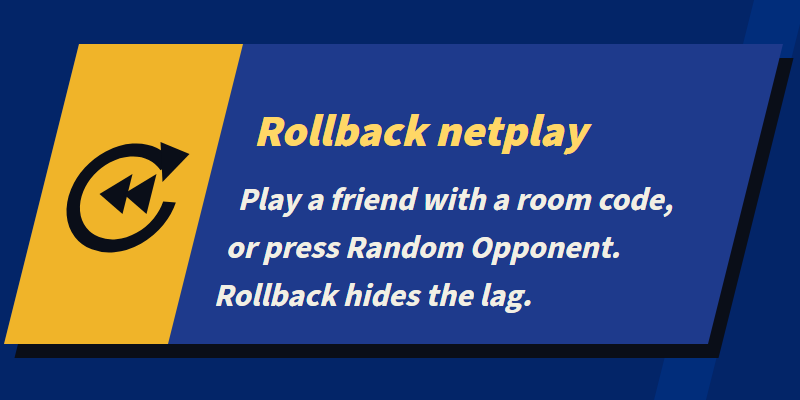
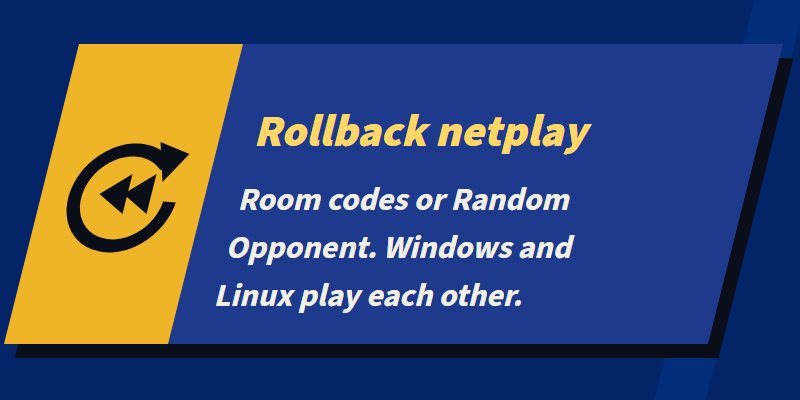
README + art for 0.2.2: badges, Windows and Linux downloads, what's new in 0.2.x, stale claims removed

Changed region(s): [[0.3125, 0.45, 0.8438, 0.54], [0.2812, 0.57, 0.7812, 0.66], [0.2812, 0.69, 0.6875, 0.78]]

diff --git a/menu/pipeline/build_brand.py b/menu/pipeline/build_brand.py
@@ -760,7 +760,7 @@ def badge(b):
     return svg(math.ceil(W), h, body), math.ceil(W), h
 
 
-def download_button():
+def download_button(platform="WINDOWS", arch="x64"):
     W, H = 640, 150
     h = 124
     o = h * T
@@ -771,9 +771,10 @@ def download_button():
     pane = poly([(o, 0), (o + 124, 0), (124, h), (0, h)])
     body += '<path d="%s" fill="%s"/>' % (pane, C["ink"])
     body += glyph("download", C["gold"], o / 2 + 124 / 2 - 34, h / 2 - 34, 68)
-    fs1 = min(44, 420 / tw("DOWNLOAD FOR WINDOWS", 1, track=0.5 / 44))
-    t1, _ = text("DOWNLOAD FOR WINDOWS", fs1, 0, 0, C["ink"], track=0.5)
-    t2, _ = text("%s  ·  x64  ·  free" % TEXT["version"], 26, 0, 0, C["ink"], "bold", track=0.6)
+    label = "DOWNLOAD FOR " + platform
+    fs1 = min(44, 420 / tw(label, 1, track=0.5 / 44))
+    t1, _ = text(label, fs1, 0, 0, C["ink"], track=0.5)
+    t2, _ = text("%s  ·  %s  ·  free" % (TEXT["version"], arch), 26, 0, 0, C["ink"], "bold", track=0.6)
     body += '<g transform="translate(%g %g) skewX(%g)">%s</g>' % (160 + (h - 72) * T * 0 + 16, 72, SKEW, t1)
     body += '<g transform="translate(%g %g) skewX(%g)">%s</g>' % (160 + 4, 108, SKEW, t2)
     return svg(W, H, body)
@@ -952,6 +953,10 @@ def main():
         write("badges/download_windows.svg", s_, "Download for Windows button (release page / README)")
         write("badges/download_windows.png", r.png(s_, 640, 150, 1), "Download button 640x150")
         write("badges/download_windows@2x.png", r.png(s_, 640, 150, 2), "Download button 1280x300")
+        s_ = download_button("LINUX", "x86_64")
+        write("badges/download_linux.svg", s_, "Download for Linux button (release page / README)")
+        write("badges/download_linux.png", r.png(s_, 640, 150, 1), "Download button 640x150")
+        write("badges/download_linux@2x.png", r.png(s_, 640, 150, 2), "Download button 1280x300")
 
         # ---- app icons
         big = r.png(app_icon(1024), 1024, 1024, 1)

diff --git a/README.md b/README.md
@@ -9,8 +9,8 @@
 </p>
 
 <p align="center">
-  <a href="https://github.com/GurekamDhillon/gd-melee-workspace/releases/latest"><img alt="Release v0.1.7" src="docs/readme/brand/version.svg" height="28"></a>
-  <img alt="Platform: Windows x64" src="docs/readme/brand/windows.svg" height="28">
+  <a href="https://github.com/GurekamDhillon/gd-melee-workspace/releases/latest"><img alt="Release v0.2.2" src="docs/readme/brand/version.svg" height="28"></a>
+  <img alt="Platform: Windows x64 and Linux x86_64" src="docs/readme/brand/windows.svg" height="28">
   <img alt="Netplay: rollback" src="docs/readme/brand/rollback.svg" height="28">
   <img alt="Mods: m-ex compatible" src="docs/readme/brand/mex.svg" height="28">
   <img alt="Replays: Slippi" src="docs/readme/brand/slippi.svg" height="28">
@@ -30,23 +30,59 @@ decompilation** rather than by emulation or by recompiling the retail binary. It
 **rollback netcode** from a competitive lobby, renders natively in HD, runs **m-ex** mod discs and
 loose mods, and can be scripted in **Lua**.
 
-> **Status: public test build (0.1.7).** Expect rough edges and please report bugs: what you did,
-> which disc, and the crash report from the `crashlogs` folder (or `melee-pc.log`).
+> **Status: public test build (0.2.2).** Expect rough edges and please report bugs: what you did,
+> which disc, and the crash report from the `crashlogs` folder (or `melee-pc.log`). Windows and
+> Linux 0.2.2 play each other online; they do not play 0.2.1 or earlier, so both players update.
 
 ## Quick start
 
-<p><a href="https://github.com/GurekamDhillon/gd-melee-workspace/releases/latest"><img alt="Download for Windows" src="docs/readme/brand/download_windows.svg" height="60"></a></p>
+<p>
+  <a href="https://github.com/GurekamDhillon/gd-melee-workspace/releases/latest"><img alt="Download for Windows" src="docs/readme/brand/download_windows.svg" height="60"></a>
+  <a href="https://github.com/GurekamDhillon/gd-melee-workspace/releases/latest"><img alt="Download for Linux" src="docs/readme/brand/download_linux.svg" height="60"></a>
+</p>
 
-1. **Download** the latest `GDMelee-<version>-win64.zip` from
-   [Releases](https://github.com/GurekamDhillon/gd-melee-workspace/releases/latest) and unzip it anywhere.
-2. **Point it at your own disc.** Start `GD Melee.exe`, click *Add disc...* and pick your own
-   legally dumped *Melee* NTSC 1.02 `.iso` (mod discs such as ACE or Akaneia work too). No game data
-   ships with the port.
+1. **Download** the latest release from
+   [Releases](https://github.com/GurekamDhillon/gd-melee-workspace/releases/latest) and unpack it
+   anywhere: `GDMelee-<version>-win64.zip` on Windows, or
+   `GDMelee-<version>-linux-x86_64.tar.xz` on Linux (`tar xf`, then run `./GD-Melee`).
+2. **Point it at your own disc.** Start `GD Melee.exe` (Windows) or `./GD-Melee` (Linux), click
+   *Add disc...* and pick your own legally dumped *Melee* NTSC 1.02 `.iso` (mod discs such as ACE or
+   Akaneia work too). Nothing disc-derived is distributed with the port.
 3. **Play.** Press *PLAY*. For online play: **VERSUS > ONLINE**, then host a room and send the
    code, join one, or press *Random Opponent*.
 
-The launcher is in English and Spanish (it follows Windows by default; English or Spanish can be chosen in the launcher).
-Windows SmartScreen warns on first run because the launcher isn't code-signed.
+The launcher is in English and Spanish (it follows the system language by default; English or Spanish
+can be chosen in the launcher). Windows SmartScreen warns on first run because the launcher isn't
+code-signed. The Linux build is a 32-bit game on a 64-bit host and needs the distribution's 32-bit
+runtime and Vulkan driver; the tarball's `README.txt` lists the packages. Press **F11** or
+**Alt+Enter** for fullscreen.
+
+## What's new in 0.2.x
+
+Details for each release are in [`tools/release/notes/`](tools/release/notes/).
+
+- **Linux, and Windows-vs-Linux play.** A native Linux x86_64 build with the same launcher, mods and
+  online play; Windows and Linux players can match each other. Before a match both games compare a
+  build id, and a mismatched build is refused instead of desyncing (0.2.0, fixed up in 0.2.2).
+- **Online.** Rollback with room codes and a competitive lobby, a stricter disc check, sets that
+  **resume after a disconnect** (or can be abandoned), tied games replayed instead of sudden death, and
+  the Turbo match rule for private rooms. Rollback checks look at far more of the game, so a real
+  desync is caught on the frame it starts.
+- **Mod browser in the game (SSBM Nucleus).** Browse and search mods with thumbnails and filters, queue
+  them (the queue survives a restart) and the game downloads and installs zip mods for you.
+  Mods from SSBM Nucleus - https://ssbmnucleus.net, used with the permission of sc00p.
+- **255 costumes per fighter**, so skins are no longer limited to the original palette slots.
+- **Fullscreen** with F11 or Alt+Enter, and a Video setting.
+- **Everything unlocked by default**: every fighter and stage from the start. Turn it off in
+  Settings > Gameplay.
+- **Envoy**, a roguelite on top of Classic and Adventure: pick a *drive* after each stage, carry four in
+  a bag, take rare *keystones* with a drawback, and face tougher opponents that use technique against
+  you. It ships on by default (SOLO > ENVOY; the launcher's Mods tab turns it off); two players can
+  run it as offline co-op, or play an Envoy set in a private online room.
+- **A new Qt launcher** for Windows and Linux with a Diagnostics tab, and opt-in crash report upload.
+- **Linux fixes:** much faster rollback snapshots, the Turbo crashes fixed, and Envoy drive items,
+  the crit shader and mod surface shaders now work. Elsewhere: a bad shader-cache entry can no longer
+  stop the game from starting, and Data > Snapshots no longer freezes.
 
 ## Features
 
@@ -54,7 +90,7 @@ Windows SmartScreen warns on first run because the launcher isn't code-signed.
   <tr>
     <td><picture>
       <source media="(prefers-color-scheme: dark)" srcset="docs/readme/feature_rollback_dark.png">
-      <img alt="Rollback netplay: Play a friend with a room code, or press Random Opponent. Rollback hides the lag." src="docs/readme/feature_rollback_light.png" width="400">
+      <img alt="Rollback netplay: Room codes or Random Opponent. Windows and Linux play each other." src="docs/readme/feature_rollback_light.png" width="400">
     </picture></td>
     <td><picture>
       <source media="(prefers-color-scheme: dark)" srcset="docs/readme/feature_lobby_dark.png">
@@ -64,7 +100,7 @@ Windows SmartScreen warns on first run because the launcher isn't code-signed.
   <tr>
     <td><picture>
       <source media="(prefers-color-scheme: dark)" srcset="docs/readme/feature_hd_dark.png">
-      <img alt="HD at any resolution: Native D3D12 rendering at any render scale, with vsync off and ~13 ms input." src="docs/readme/feature_hd_light.png" width="400">
+      <img alt="HD at any resolution: Native D3D12 or Vulkan at any render scale, vsync off, ~13 ms input." src="docs/readme/feature_hd_light.png" width="400">
     </picture></td>
     <td><picture>
       <source media="(prefers-color-scheme: dark)" srcset="docs/readme/feature_mex_dark.png">
@@ -88,7 +124,7 @@ Windows SmartScreen warns on first run because the launcher isn't code-signed.
     </picture></td>
     <td><picture>
       <source media="(prefers-color-scheme: dark)" srcset="docs/readme/feature_launcher_dark.png">
-      <img alt="Launcher, EN / ES: Local mods, diagnostics and crash reports. In English and Spanish." src="docs/readme/feature_launcher_light.png" width="400">
+      <img alt="Launcher, EN / ES: Windows and Linux. Mods, diagnostics and crash reports, in English and Spanish." src="docs/readme/feature_launcher_light.png" width="400">
     </picture></td>
   </tr>
   <tr>
@@ -111,13 +147,23 @@ Windows SmartScreen warns on first run because the launcher isn't code-signed.
       <img alt="Deterministic engine: Bit-exact simulation, checked frame by frame with SyncTest." src="docs/readme/feature_determinism_light.png" width="400">
     </picture></td>
   </tr>
+  <tr>
+    <td><picture>
+      <source media="(prefers-color-scheme: dark)" srcset="docs/readme/feature_envoy_dark.png">
+      <img alt="Envoy roguelite: A run of stages with loot and keystones. Solo, co-op or an online set." src="docs/readme/feature_envoy_light.png" width="400">
+    </picture></td>
+    <td><picture>
+      <source media="(prefers-color-scheme: dark)" srcset="docs/readme/feature_modbrowser_dark.png">
+      <img alt="In-game mod browser: Browse SSBM Nucleus mods in the game and install them from a queue." src="docs/readme/feature_modbrowser_light.png" width="400">
+    </picture></td>
+  </tr>
 </table>
 
-### Features in the current release
+### Features
 
 **Online**
-- Rollback netcode. Play a friend with a short room code, or press **Random Opponent** to be paired
-  with anyone searching.
+- Rollback netcode, between Windows and Linux players too. Play a friend with a short room code, or
+  press **Random Opponent** to be paired with anyone searching.
 - A competitive lobby in the same room: blind character picks, stage strikes and bans, ready-up and
   rematches, with the set score kept.
 - Stages are split into **starters** (Battlefield, Final Destination, Dream Land, Yoshi's Story,
@@ -130,9 +176,9 @@ Windows SmartScreen warns on first run because the launcher isn't code-signed.
   online match.
 
 **Mods (m-ex)**
-- Mod discs (ACE, Akaneia) and loose mods copied into the `mods` folder. The Qt launcher's Mods
-  tab lists installed mods, enables/disables them, and moves removed mods to a recoverable folder.
-  Remote downloads and updates are not implemented in this launcher.
+- Mod discs (ACE, Akaneia) and loose mods copied into the `mods` folder. The launcher's Mods tab
+  lists installed mods, enables/disables them, and moves removed mods to a recoverable folder. It does
+  not download mods; the in-game browser (above) does,.
 - **94 m-ex fighter slots** (up from 31), so big rosters fit.
 - The results screen shows m-ex fighters' names, emblems and stock icons.
 - m-ex CPUs play from their clone base's CPU tables.
@@ -144,27 +190,13 @@ Windows SmartScreen warns on first run because the launcher isn't code-signed.
   or `select=kit` in the scene grammar).
 - A **Settings** screen: video, audio, controls, online name and server, mods and gameplay options,
   applied right away and saved.
-- Everything unlocked from the start, without a save file (always on online).
+- Everything unlocked from the start by default, without a save file (Settings > Gameplay turns it off).
 
 **Graphics and input**
-- Native D3D12 rendering at any render scale, vsync off, and an experimental uncapped frame rate.
+- Native rendering (D3D12 on Windows, Vulkan on Linux) at any render scale, vsync off, and an experimental uncapped frame rate.
 - About 13 ms from controller to screen, steadily.
+- Fullscreen (F11 or Alt+Enter) and 255 costumes per fighter.
 - GameCube adapter (plug in any time, clones supported) and any gamepad.
-
-**Controller remapping (source implementation; controller acceptance pending)**
-
-Open **SETTINGS > CONTROLS > Remap Controller**. Choose **Game Input**, select
-**Bind Input**, then press and release the button, stick direction or trigger
-you want. **Swap** exchanges conflicting bindings; **Also** keeps duplicates.
-**Pick Controller** selects a pad by an input on it. Original buttons navigate
-this page; **START+B** cancels capture, and holding original **START+B for two
-seconds** in menus restores the current profile's defaults.
-
-Each device has four named profiles and Default, Shoulder Jump and Face Friendly
-presets. Stick deadzones, stick swapping, trigger analog, digital light/full
-shield and rumble are on the same page. The live strip shows the mapped inputs.
-Tap jump remains Melee's original behaviour; an exact, netplay-safe off option
-is still outstanding. The keyboard remains hotkeys only.
 
 **Scripting**
 - Lua scripts and a console (the backtick key). Scripts can read the match, draw, wait on the game,
@@ -181,24 +213,15 @@ is still outstanding. The keyboard remains hotkeys only.
   The Qt launcher opens logs and copies reports for sharing. Uploading crash reports is optional, off by
   default, and only happens when you click "Upload last 3 crash logs".
 
-### Added in 0.1.5
+### Changelog
 
-- **The keyboard is hotkeys only.** It no longer plays: controllers play, and the keyboard keeps
-  F9, F10, the console and mods' own keys (`gd.key`).
-- **"Connect a controller":** a window with no controller shows a notice instead of sitting there
-  unplayable.
-- **The mouse works in the main menu, settings, online lobby and character and stage select:**
-  point, click, right-click to go back and scroll lists. Matches ignore it, and scripts can read
-  it with `gd.mouse()`.
-- **Items no longer hitch** when they first spawn: their GPU pipelines are compiled in parallel and
-  prewarmed at match load.
-- **Crash fixes:** m-ex fighters whose motion tables or model part trees are shorter than the
-  engine assumed, m-ex costume data (`MEX_GetData`), and the stage select's name model outliving
-  its scene.
-- **Bit-exact with the console:** matrix maths now rounds exactly like the GameCube's paired-single
-  instructions, and six real console replays (Slippi `.slp`) play back matching to the bit, frame
-  by frame: action, position, facing, percent, stocks and the RNG.
-- **The Geno engine and the LAB mode** (below).
+Per-release notes: [`tools/release/notes/`](tools/release/notes/). Highlights of the 0.1.x line:
+
+- **0.1.5:** the keyboard is hotkeys only (controllers play), a "Connect a controller" notice, the
+  mouse in menus (`gd.mouse()` for scripts), items no longer hitch on first spawn, m-ex crash fixes,
+  bit-exact matrix maths with six console Slippi replays played back to the bit, and the Geno engine
+  and LAB mode.
+- **0.1.6:** TRAINING with frame advantage, move data and a configurable dummy; COMBO and DRILLS.
 
 ## Screenshots
 
@@ -296,6 +319,10 @@ schema is in [`ports/ir/`](ports/ir/).
 - The uncapped frame rate is experimental: the picture trails the game by one frame.
 - Teams mode on the new character select isn't finished, and 4-player local matches have had little
   testing.
+- Online play has been tested on one PC with two game windows, not yet widely across the internet.
+  Online Envoy has only the passive drives.
+- New skins appear after a restart. Heavy modded fighters can still cost more than a 120 fps game allows.
+- On some Linux laptops the game has run below 60 fps (0.2.1); this is still being worked on.
 - On a 144 Hz monitor, 60 fps looks uneven. Set the display to 120 Hz, or turn on G-Sync/FreeSync.
 
 Each release's notes are in [`tools/release/notes/`](tools/release/notes/).
@@ -312,7 +339,7 @@ retail binary. This project takes a third road — **compiled decompilation**:
   `gw_`, and emits x86 COFF. The result links against a native platform layer.
 - The GameCube SDK surface (GX, OS, PAD, CARD, AX, DVD, AR, …) is replaced by native shims over
   [Aurora](https://github.com/encounter/aurora) (a GC/Wii SDK reimplementation on top of
-  [Dawn](https://dawn.googlesource.com/dawn)), so rendering goes straight to D3D12 with no emulated
+  [Dawn](https://dawn.googlesource.com/dawn)), so rendering goes straight to D3D12 (Windows) or Vulkan (Linux) with no emulated
   GPU. Where the SDK's own decompiled source is worth keeping, it is built as a translation unit
   like any other — the THP video decoder is, with its Gekko paired-single IDCT rewritten in
   portable C.
@@ -328,19 +355,22 @@ where most of the engineering goes (see the devlog).
 | Area | State |
 |---|---|
 | Boot → menus → VS match, Training | working |
-| Rendering (GX → D3D12 via Aurora/Dawn), any render scale | working |
+| Rendering (GX → D3D12 on Windows, Vulkan on Linux, via Aurora/Dawn), any render scale | working |
 | Audio (own AX / DSP-ADPCM mixer over SDL3) | working, incl. both aux buses + AXFX reverb/delay |
 | Cutscenes (THP video, own decoder) | working |
 | Memory-card saves (GCI) | working |
 | GameCube adapter, gamepads (keyboard = hotkeys only), mouse in menus | working |
 | Vanilla parity (console Slippi replays, bit-exact) | working |
-| Geno engine + LAB mode | public test (0.1.6), including LAB training, dummy, combos and drills |
+| Geno engine + LAB mode | public test, including LAB training, dummy, combos and drills |
 | Frame pacing | hard 60 Hz; experimental uncapped frame rate |
 | Rollback netplay + competitive lobby | public test |
 | Slippi replay playback | working |
 | m-ex discs and loose mods (94 fighter slots) | public test |
 | Lua scripting + console | working (API 1) |
-| Launcher, release packaging | public test (0.1.6) |
+| Windows x64 and Linux x86_64 builds, Windows-vs-Linux online play | public test (0.2.2) |
+| Launcher (Qt, English and Spanish), release packaging | public test (0.2.2) |
+| In-game SSBM Nucleus mod browser (zip mods) | public test (0.2.2) |
+| Envoy roguelite (solo, offline co-op, online sets with passive drives) | public test; look and balance still being tuned |
 | Widescreen | Hor+ gameplay; centred wide kit menus and Lua canvas, live VIDEO toggle (menu changes awaiting in-game verification) |
 
 ## Repository layout

diff --git a/menu/out_readme/README_ART.md b/menu/out_readme/README_ART.md
@@ -28,6 +28,8 @@ they go elsewhere. Nothing here has been placed in any README.
 | `feature_settings_dark.png` | 800x400 | dark (pair: `feature_settings_light.png`) | feature tile |
 | `feature_ucf_dark.png` | 800x400 | dark (pair: `feature_ucf_light.png`) | feature tile |
 | `feature_determinism_dark.png` | 800x400 | dark (pair: `feature_determinism_light.png`) | feature tile |
+| `feature_envoy_dark.png` | 800x400 | dark (pair: `feature_envoy_light.png`) | feature tile |
+| `feature_modbrowser_dark.png` | 800x400 | dark (pair: `feature_modbrowser_light.png`) | feature tile |
 | `banner_light.png` | 1600x400 | light (pair: `banner_dark.png`) | hero banner, top of the README |
 | `banner_light@2x.png` | 3200x800 | light (pair: `banner_dark@2x.png`) | hero banner, top of the README |
 | `feature_rollback_light.png` | 800x400 | light (pair: `feature_rollback_dark.png`) | feature tile |
@@ -42,6 +44,8 @@ they go elsewhere. Nothing here has been placed in any README.
 | `feature_settings_light.png` | 800x400 | light (pair: `feature_settings_dark.png`) | feature tile |
 | `feature_ucf_light.png` | 800x400 | light (pair: `feature_ucf_dark.png`) | feature tile |
 | `feature_determinism_light.png` | 800x400 | light (pair: `feature_determinism_dark.png`) | feature tile |
+| `feature_envoy_light.png` | 800x400 | light (pair: `feature_envoy_dark.png`) | feature tile |
+| `feature_modbrowser_light.png` | 800x400 | light (pair: `feature_modbrowser_dark.png`) | feature tile |
 | `social_preview.png` | 1280x640 | one file (GitHub shows it on neither theme) | repo Settings > Social preview (upload; not referenced in the README) |
 | `divider.png` | 1600x32 | one file for both themes | section divider (transparent; reads on both themes) |
 
@@ -57,7 +61,7 @@ GitHub picks the source through `prefers-color-scheme`:
   <picture>
     <source media="(prefers-color-scheme: dark)" srcset="docs/readme/banner_dark@2x.png">
     <source media="(prefers-color-scheme: light)" srcset="docs/readme/banner_light@2x.png">
-    <img alt="GD's Melee - A native PC port — rollback netplay, HD, m-ex mods, Lua scripting" src="docs/readme/banner_light@2x.png" width="800">
+    <img alt="GD's Melee - A native PC port for Windows and Linux — rollback netplay, m-ex mods, Lua" src="docs/readme/banner_light@2x.png" width="800">
   </picture>
 </p>
 ```
@@ -72,7 +76,7 @@ repeat in `alt` for screen readers:
   <tr>
     <td><picture>
       <source media="(prefers-color-scheme: dark)" srcset="docs/readme/feature_rollback_dark.png">
-      <img alt="Rollback netplay: Play a friend with a room code, or press Random Opponent. Rollback hides the lag." src="docs/readme/feature_rollback_light.png" width="400">
+      <img alt="Rollback netplay: Room codes or Random Opponent. Windows and Linux play each other." src="docs/readme/feature_rollback_light.png" width="400">
     </picture></td>
     <td><picture>
       <source media="(prefers-color-scheme: dark)" srcset="docs/readme/feature_lobby_dark.png">
@@ -82,7 +86,7 @@ repeat in `alt` for screen readers:
   <tr>
     <td><picture>
       <source media="(prefers-color-scheme: dark)" srcset="docs/readme/feature_hd_dark.png">
-      <img alt="HD at any resolution: Native D3D12 rendering at any render scale, with vsync off and ~13 ms input." src="docs/readme/feature_hd_light.png" width="400">
+      <img alt="HD at any resolution: Native D3D12 or Vulkan at any render scale, vsync off, ~13 ms input." src="docs/readme/feature_hd_light.png" width="400">
     </picture></td>
     <td><picture>
       <source media="(prefers-color-scheme: dark)" srcset="docs/readme/feature_mex_dark.png">
@@ -106,7 +110,7 @@ repeat in `alt` for screen readers:
     </picture></td>
     <td><picture>
       <source media="(prefers-color-scheme: dark)" srcset="docs/readme/feature_launcher_dark.png">
-      <img alt="Launcher, EN / ES: Mods browser, diagnostics and crash reports. In English and Spanish." src="docs/readme/feature_launcher_light.png" width="400">
+      <img alt="Launcher, EN / ES: Windows and Linux. Mods, diagnostics and crash reports, in English and Spanish." src="docs/readme/feature_launcher_light.png" width="400">
     </picture></td>
   </tr>
   <tr>
@@ -127,6 +131,16 @@ repeat in `alt` for screen readers:
     <td><picture>
       <source media="(prefers-color-scheme: dark)" srcset="docs/readme/feature_determinism_dark.png">
       <img alt="Deterministic engine: Bit-exact simulation, checked frame by frame with SyncTest." src="docs/readme/feature_determinism_light.png" width="400">
+    </picture></td>
+  </tr>
+  <tr>
+    <td><picture>
+      <source media="(prefers-color-scheme: dark)" srcset="docs/readme/feature_envoy_dark.png">
+      <img alt="Envoy roguelite: A run of stages with loot and keystones. Solo, co-op or an online set." src="docs/readme/feature_envoy_light.png" width="400">
+    </picture></td>
+    <td><picture>
+      <source media="(prefers-color-scheme: dark)" srcset="docs/readme/feature_modbrowser_dark.png">
+      <img alt="In-game mod browser: Browse SSBM Nucleus mods in the game and install them from a queue." src="docs/readme/feature_modbrowser_light.png" width="400">
     </picture></td>
   </tr>
 </table>

diff --git a/menu/out_brand/BRAND.md b/menu/out_brand/BRAND.md
@@ -135,9 +135,9 @@ wordmark in another font, or combine it with any Nintendo mark or character art.
 | `social/youtube_thumb_1280x720_blank.png` | 1280x720 | YouTube thumbnail template, no headline |
 | `badges/rollback.svg` | vector | README badge: NETPLAY ROLLBACK |
 | `badges/rollback@2x.png` | 410x56 | README badge PNG fallback |
-| `badges/windows.svg` | vector | README badge: PLATFORM WINDOWS X64 |
-| `badges/windows@2x.png` | 482x56 | README badge PNG fallback |
-| `badges/version.svg` | vector | README badge: RELEASE V0.1.6 |
+| `badges/windows.svg` | vector | README badge: PLATFORM WINDOWS + LINUX |
+| `badges/windows@2x.png` | 538x56 | README badge PNG fallback |
+| `badges/version.svg` | vector | README badge: RELEASE V0.2.2 |
 | `badges/version@2x.png` | 354x56 | README badge PNG fallback |
 | `badges/mex.svg` | vector | README badge: MODS M-EX COMPATIBLE |
 | `badges/mex@2x.png` | 474x56 | README badge PNG fallback |
@@ -148,6 +148,9 @@ wordmark in another font, or combine it with any Nintendo mark or character art.
 | `badges/download_windows.svg` | vector | Download for Windows button (release page / README) |
 | `badges/download_windows.png` | 640x150 | Download button 640x150 |
 | `badges/download_windows@2x.png` | 1280x300 | Download button 1280x300 |
+| `badges/download_linux.svg` | vector | Download for Linux button (release page / README) |
+| `badges/download_linux.png` | 640x150 | Download button 640x150 |
+| `badges/download_linux@2x.png` | 1280x300 | Download button 1280x300 |
 | `icons/app_icon_1024.png` | 1024x1024 | app icon master (transparent) |
 | `icons/app_icon.svg` | vector | app icon source (full mark) |
 | `icons/app_icon_small.svg` | vector | app icon source for 16-32 px |
